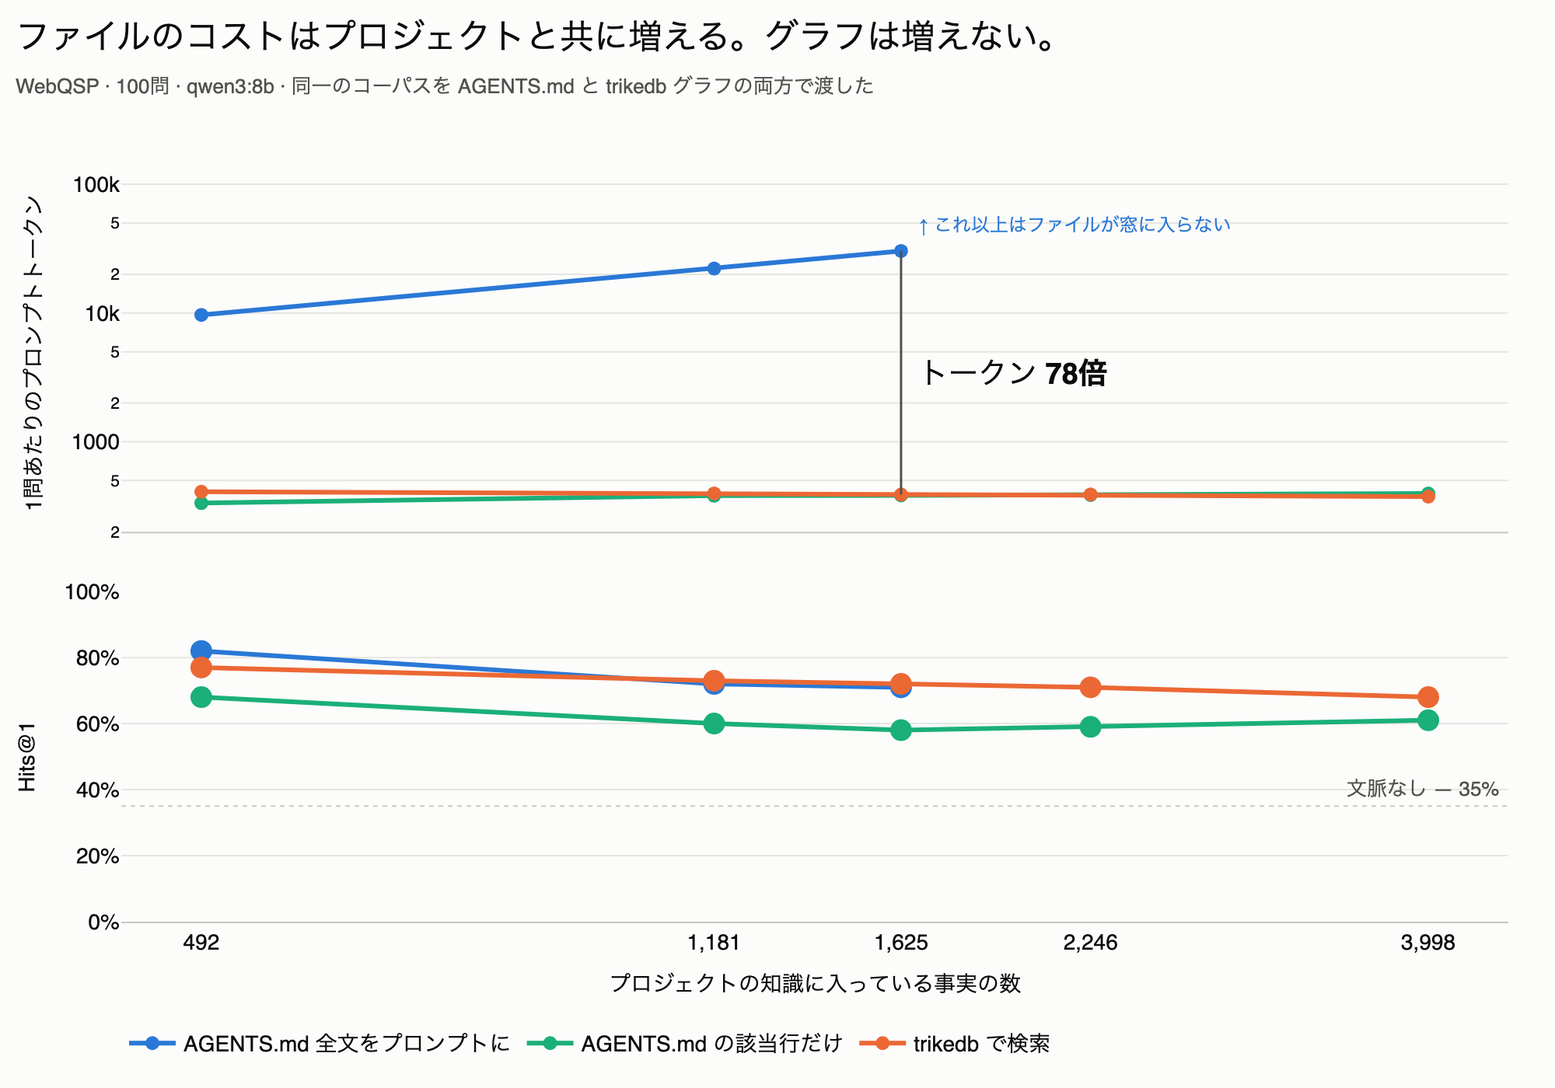
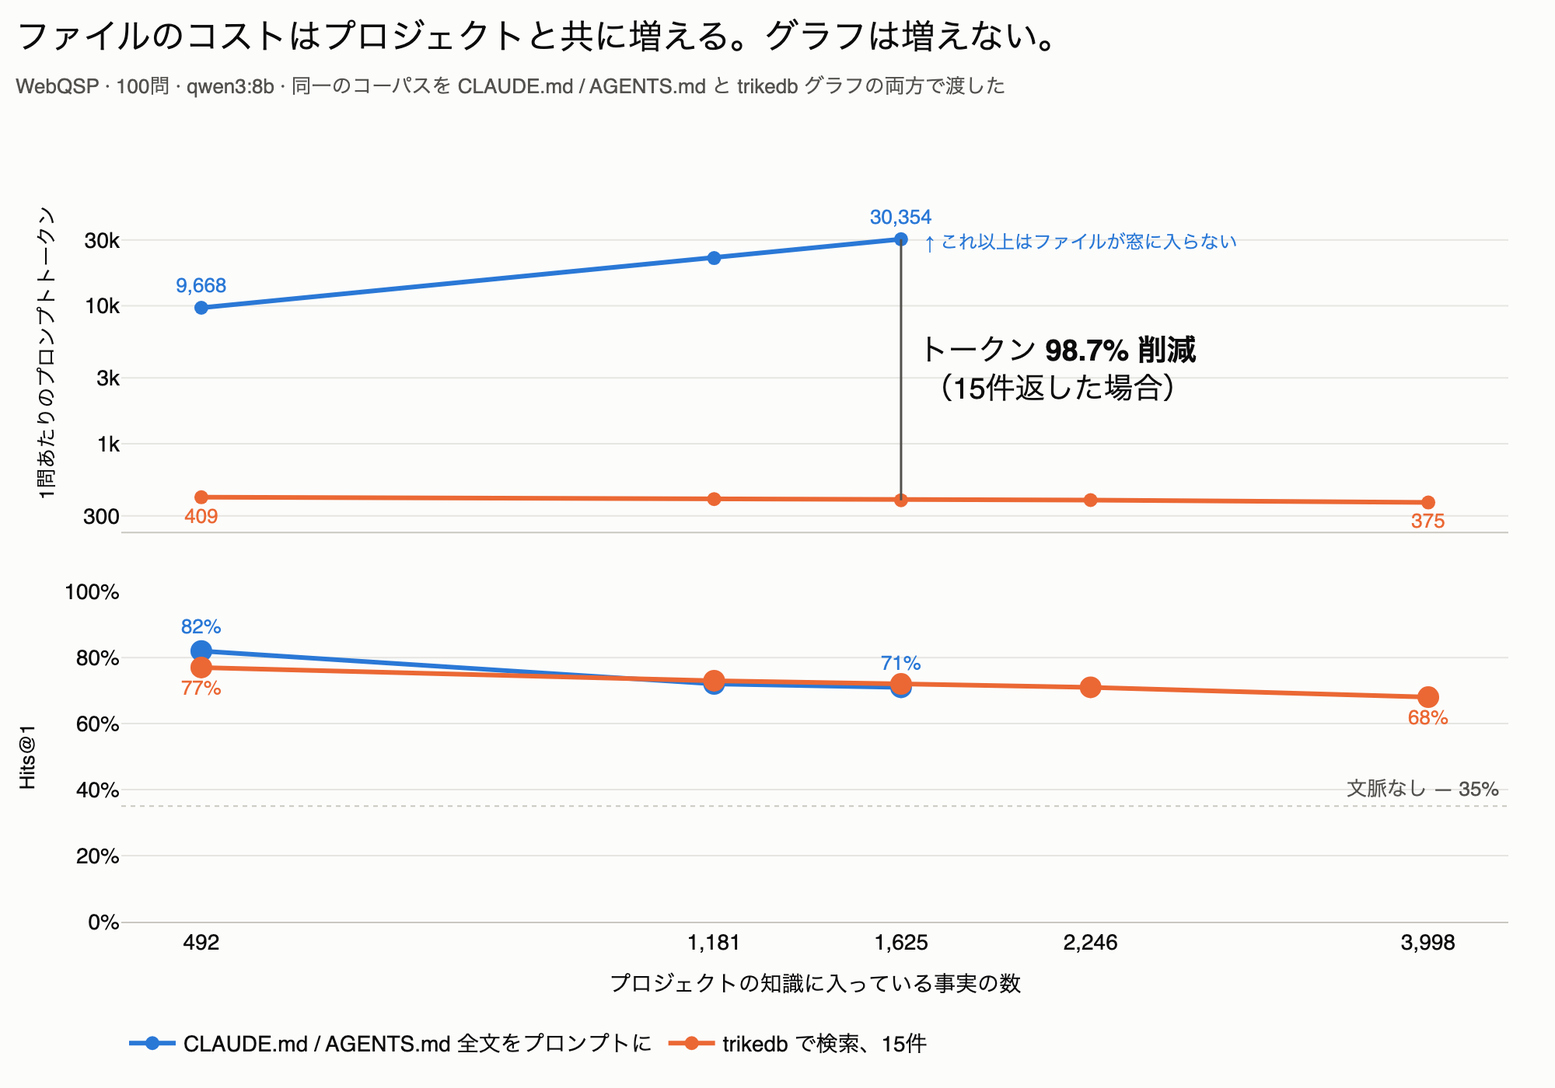
benchmarks: 図が読めなかった。倍率をやめて削減率にし、ファイル名も両方書いた
図の直したところ:
- 線を3本から2本に。md_grep は対照なので数字は表に残し、図からは外した。
  上のパネルでグラフの線とほぼ重なっていて、凡例が3本と言っているのに2本しか
  見えない状態だった。
- 対数軸の目盛りを明示した。放っておくと副目盛りにもラベルが付いて、軸が
  「5 2 5 2 5 2」と並び、どの数字も読み解かないと分からなかった。
- 各線の両端に実数を書いた。軸を読まなくても値が分かる。
- ファイル名を CLAUDE.md / AGENTS.md の両方にした。Claude Code は CLAUDE.md、
  Codex は AGENTS.md で実測しているのに、図は AGENTS.md しか書いていなかった。

「78倍」を「98.7%削減」に変えた。倍率は方向を読者に計算させる。

そして要約行のリードを 88.4% に変えた。98.7% は 1,625 facts での数字で、
そこはファイルが 82.0% から 71.0% に劣化した後なので、グラフが越えるべき
基準が下がっている。88.4% はファイルが一番強い 492 facts での数字で、
しかもグラフが4ポイント勝っている。範囲のおいしい端をリードにしない。

diff --git a/benchmarks/memory_chart.py b/benchmarks/memory_chart.py
@@ -41,7 +41,12 @@ MD = "#2a78d6"
 GRAPH = "#eb6834"
 MD_GREP = "#1baf7a"
 
-SERIES = [("md", MD), ("md_grep", MD_GREP), ("graph", GRAPH)]
+#: Two lines, not three. `md_grep` is a control and its numbers matter, but on
+#: this figure it sits within a few hundred tokens of the graph's line, so the
+#: top panel showed two curves where the legend promised three and the reader
+#: had to work out which was missing. It lives in the table in README.md.
+SERIES = [("md", MD, "top center"), ("graph", GRAPH, "bottom center")]
+PLOTTED = ("md", "graph", "md_grep")
 
 #: A translated doc deserves a translated figure. Only the words move; every
 #: number and every colour is the same file of data.
@@ -49,40 +54,40 @@ TEXT = {
     "en": {
         "title": "The file's cost grows with the project. The graph's does not.",
         "sub": ("WebQSP · 100 questions · qwen3:8b · the identical corpus "
-                "delivered as AGENTS.md and as a trikedb graph"),
+                "delivered as a CLAUDE.md / AGENTS.md and as a trikedb graph"),
         "x": "facts in the project's knowledge",
         "y1": "prompt tokens per question", "y2": "Hits@1",
-        "md": "the whole AGENTS.md in the prompt",
+        "md": "the whole CLAUDE.md / AGENTS.md in the prompt",
         "md_grep": "matching lines of AGENTS.md",
-        "graph": "trikedb retrieval",
+        "graph": "trikedb retrieval, 15 facts",
         "none": "no context at all",
-        "gap": "<b>{ratio:.0f}x</b> the tokens",
+        "gap": "<b>{cut:.1f}% fewer</b> tokens<br>at 15 facts returned",
         "window": "↑ past here the file no longer fits the window",
     },
     "jp": {
         "title": "ファイルのコストはプロジェクトと共に増える。グラフは増えない。",
         "sub": ("WebQSP · 100問 · qwen3:8b · 同一のコーパスを "
-                "AGENTS.md と trikedb グラフの両方で渡した"),
+                "CLAUDE.md / AGENTS.md と trikedb グラフの両方で渡した"),
         "x": "プロジェクトの知識に入っている事実の数",
         "y1": "1問あたりのプロンプトトークン", "y2": "Hits@1",
-        "md": "AGENTS.md 全文をプロンプトに",
+        "md": "CLAUDE.md / AGENTS.md 全文をプロンプトに",
         "md_grep": "AGENTS.md の該当行だけ",
-        "graph": "trikedb で検索",
+        "graph": "trikedb で検索、15件",
         "none": "文脈なし",
-        "gap": "トークン <b>{ratio:.0f}倍</b>",
+        "gap": "トークン <b>{cut:.1f}% 削減</b><br>（15件返した場合）",
         "window": "↑ これ以上はファイルが窓に入らない",
     },
     "zh": {
         "title": "文件的成本随项目增长，图谱的不会。",
         "sub": ("WebQSP · 100 题 · qwen3:8b · 同一份语料分别以 "
-                "AGENTS.md 和 trikedb 图谱交付"),
+                "CLAUDE.md / AGENTS.md 和 trikedb 图谱交付"),
         "x": "项目知识中的事实条数",
         "y1": "每题的提示词 token 数", "y2": "Hits@1",
-        "md": "把整个 AGENTS.md 放进提示",
+        "md": "把整个 CLAUDE.md / AGENTS.md 放进提示",
         "md_grep": "只放 AGENTS.md 中匹配的行",
-        "graph": "trikedb 检索",
+        "graph": "trikedb 检索，15 条",
         "none": "没有任何上下文",
-        "gap": "token <b>{ratio:.0f} 倍</b>",
+        "gap": "token <b>减少 {cut:.1f}%</b><br>（返回 15 条时）",
         "window": "↑ 再大文件就装不进上下文窗口",
     },
 }
@@ -94,7 +99,7 @@ def main(lang: str = "en") -> None:
     floor = next((r["hits_at_1"] for r in warm if r["condition"] == "none"), None)
     by = {name: sorted((r for r in warm if r["condition"] == name),
                        key=lambda r: r["corpus_triples"])
-          for name, _ in SERIES}
+          for name in PLOTTED}
 
     # The bracket's ratio is raw tokens at a fixed retrieval size, taken at
     # the largest corpus where the file still fits the window. It is not a
@@ -107,7 +112,11 @@ def main(lang: str = "en") -> None:
     paired = next(r for r in by["graph"]
                   if r["corpus_triples"] == biggest["corpus_triples"])
     ratio = biggest["median_prompt_tokens"] / paired["median_prompt_tokens"]
-    words = {k: v.format(ratio=ratio) if "{ratio" in v else v
+    # A percentage, because "78x" makes the reader work out which direction is
+    # cheaper. "98.7% fewer" does not.
+    cut = 100 * (1 - paired["median_prompt_tokens"]
+                 / biggest["median_prompt_tokens"])
+    words = {k: v.format(ratio=ratio, cut=cut) if "{" in v else v
              for k, v in TEXT[lang].items()}
 
     # Every size any condition reached, not just the file arm's. The file
@@ -118,14 +127,28 @@ def main(lang: str = "en") -> None:
     figure = make_subplots(rows=2, cols=1, shared_xaxes=True,
                            vertical_spacing=0.08, row_heights=[0.52, 0.48])
 
-    for name, color in SERIES:
+    for name, color, side in SERIES:
         points = by[name]
         if not points:
             continue
         x = [r["corpus_triples"] for r in points]
+
+        def ends(values, fmt):
+            """The value written on the first and last point, nothing between.
+
+            Labelling every point stacks five numbers along a line that is
+            almost flat; labelling none makes the reader decode a log axis to
+            learn that 409 and 375 are the same number twice.
+            """
+            return [fmt(v) if i in (0, len(values) - 1) else ""
+                    for i, v in enumerate(values)]
+
+        tokens = [r["median_prompt_tokens"] for r in points]
         figure.add_trace(go.Scatter(
-            x=x, y=[r["median_prompt_tokens"] for r in points],
-            mode="lines+markers", name=words[name], legendgroup=name,
+            x=x, y=tokens, mode="lines+markers+text", name=words[name],
+            legendgroup=name, text=ends(tokens, lambda v: f"{v:,}"),
+            textposition=side, textfont=dict(size=13, color=color),
+            cliponaxis=False,
             line=dict(color=color, width=3), marker=dict(size=9, color=color),
             hovertemplate="%{x:,} facts<br>%{y:,} prompt tokens<extra></extra>",
         ), row=1, col=1)
@@ -133,9 +156,13 @@ def main(lang: str = "en") -> None:
         # real configuration — a file that outgrew the window — but it is a
         # different failure from getting lost in a file that fit, and one
         # marker for both would merge them.
+        hits = [r["hits_at_1"] for r in points]
         figure.add_trace(go.Scatter(
-            x=x, y=[r["hits_at_1"] for r in points], mode="lines+markers",
+            x=x, y=hits, mode="lines+markers+text",
             name=words[name], legendgroup=name, showlegend=False,
+            text=ends(hits, lambda v: f"{v:.0f}%"),
+            textposition=side, textfont=dict(size=13, color=color),
+            cliponaxis=False,
             line=dict(color=color, width=3),
             marker=dict(size=11, color=[SURFACE if r["truncated"] else color
                                         for r in points],
@@ -173,8 +200,8 @@ def main(lang: str = "en") -> None:
     # cannot be run at all rather than merely running worse.
     if biggest["corpus_triples"] < max(sizes):
         figure.add_annotation(
-            x=math.log10(biggest["corpus_triples"]), xshift=10,
-            y=math.log10(biggest["median_prompt_tokens"]), yshift=16,
+            x=math.log10(biggest["corpus_triples"]), xshift=14,
+            y=math.log10(biggest["median_prompt_tokens"]), yshift=-2,
             text=words["window"], showarrow=False, xanchor="left",
             font=dict(size=12, color=MD), row=1, col=1)
 
@@ -207,11 +234,16 @@ def main(lang: str = "en") -> None:
     # Clamped to the data. Left to itself the axis runs down to 5 tokens to
     # reach a round decade, and three quarters of the panel is then empty
     # space under the flat line.
-    figure.update_yaxes(title=dict(text=words["y1"], font=dict(size=14)),
+    # Explicit ticks. Left alone across two and a half decades plotly labels
+    # the minor ticks too, so the axis reads "5 2 5 2 5 2" between the
+    # decades and every number on it has to be decoded.
+    figure.update_yaxes(title=dict(text=words["y1"], font=dict(size=13)),
                         type="log", gridcolor=GRID, zeroline=False,
-                        range=[math.log10(200), math.log10(120_000)],
+                        range=[math.log10(230), math.log10(90_000)],
+                        tickvals=[300, 1_000, 3_000, 10_000, 30_000],
+                        ticktext=["300", "1k", "3k", "10k", "30k"],
                         row=1, col=1)
-    figure.update_yaxes(title=dict(text=words["y2"], font=dict(size=14)),
+    figure.update_yaxes(title=dict(text=words["y2"], font=dict(size=13)),
                         range=[0, 100], ticksuffix="%", gridcolor=GRID,
                         zeroline=False, row=2, col=1)
     out = HERE / ("memory.png" if lang == "en" else f"memory_{lang}.png")

diff --git a/benchmarks/README_jp.md b/benchmarks/README_jp.md
@@ -14,7 +14,7 @@
 | **速度** | 1問22.5秒のうち **0.59秒** — サーバもインデックスもなく、ファイル1つ |
 | **規模** | **10万トリプル**まで速い。最初に苦しくなるのは意味検索で3万から |
 | **端から端まで** | ノートPCの8Bを載せると **77.7%** が正解（グラフなしでは **42.7%**） |
-| **ファイルとの比較** | `CLAUDE.md` と同じ精度に到達するのに必要なトークンは、492 facts で **8.7分の1**、1,625 facts で **78分の1** |
+| **ファイルとの比較** | `CLAUDE.md` / `AGENTS.md` より高い精度を出しつつ **トークンは88.4%削減**。ファイルが育つほど差は開きます |
 
 ## 精度
 
@@ -74,16 +74,20 @@ p = 0.27）。リーダーを差し替えるなら、「分からなければそ
 等価な削減ではありません。trikedb が何件返すかはツマミ（`--cap`）で、誠実な比較は
 それを**答えが並ぶところ**に合わせます:
 
-| 492 facts、ファイルは 82.0% / 9,668 トークン | 精度 | トークン | |
+| 492 facts、ファイルは 82.0% / 9,668 トークン | 精度 | トークン | 削減 |
 |---|---|---|---|
-| trikedb 15件 | 77.0% | 409 | 5pt 負け |
-| **trikedb 50件** | **86.0%** | **1,117** | **8.7分の1、4pt 勝ち** |
-| trikedb 150件 | 88.0% | 3,125 | 3.1分の1、6pt 勝ち |
+| trikedb 15件 | 77.0% | 409 | 95.8%、ただし精度は5pt負け |
+| **trikedb 50件** | **86.0%** | **1,117** | **88.4%、しかも精度は4pt勝ち** |
+| trikedb 150件 | 88.0% | 3,125 | 67.7%、精度は6pt勝ち |
 
-つまり 492 facts での等価な数字は **8.7倍**で、最初の表の生のトークン比が示す24倍
-ではありません。1,625 facts では15件で既にファイルに並んでいる（72.0% 対 71.0%）
-ので、そこでの比が78倍。比が開くのは、**育ったファイルは高くなり、同時に精度も
-落ちる**ので、グラフが超えるべき基準が下がるからです。
+つまり 492 facts での等価な数字は **「精度で勝ちながらトークン88.4%削減」**で、
+最初の表の生のトークン比が示す95.8%ではありません。
+
+1,625 facts では15件で既にファイルに並んでいる（72.0% 対 71.0%）ので削減は
+98.7%。ただしこれは**範囲の一番おいしい端**で、条件を付けて読むべき数字です。
+ファイルは 492 facts で 82.0%、1,625 facts で 71.0% — 育つと精度が落ちるので、
+グラフが超えるべき基準が下がっています。**ファイルが一番強い地点で測った 88.4%
+が、引用すべき数字です。**
 
 ファイル側にこのツマミはありません。すでに全部送っているので、492 facts では
 82.0% が天井で、いくら払っても上がりません。グラフは 88.0% まで届いて、それでも
@@ -137,15 +141,19 @@ p = 0.27）。リーダーを差し替えるなら、「分からなければそ
 |---|---|---|---|
 | Claude Code, `CLAUDE.md` | 41,318 · 70.0% | 63,172 · 63.3% | 110,839 · 70.0% |
 | Claude Code, trikedb | 31,377 · 66.7% | 29,769 · 60.0% | **29,758 · 66.7%** |
+| → トークン削減 | 24.1% | 52.9% | **73.2%** |
 | Codex, `AGENTS.md` | 29,173 · 73.3% | 58,308 · 60.0% | 87,153 · 56.7% |
 | Codex, trikedb | 20,523 · 66.7% | 20,503 · 66.7% | **20,510 · 66.7%** |
+| → トークン削減 | 29.7% | 64.8% | **76.5%** |
 
 30問、`claude-haiku-4.5` と Codex のデフォルト。Codex のファイル条件だけは 1,625
 件で2ターン、3,998件で3ターン回っています — それだけ大きいファイルの中を探し始める
 ためで、コストが上がる理由の一部です。他はすべて1ターン。各数字の大半はハーネス
 自身のシステムプロンプト（Claude Code は知識ゼロでも 31,014 トークン）で、これは
 どちらの条件でも避けられません。それを引くと、**知識そのもののコストはファイルで
-+10,304 トークン、グラフで +363 トークン** — 28倍の差です。
++10,304 トークン、グラフで +363 トークン — 96.5%削減**です。リクエスト全体での
+削減率がこれより小さいのは、リクエストの3分の2がどちらの条件でも避けられない
+ハーネスのオーバーヘッドだからです。
 
 Codex のほうが結果はきれいです。コーパスが育つとファイル条件は**高くなり、同時に
 精度も落ちる**（73.3% → 56.7%）のに対し、グラフ条件は 20,510 トークン横ばいで

diff --git a/benchmarks/README_zh.md b/benchmarks/README_zh.md
@@ -14,7 +14,7 @@
 | **速度** | 一题 22.5 秒里的 **0.59 秒** — 没有服务器，没有索引，只有一个文件 |
 | **规模** | 到 **10 万条三元组**仍然很快；最先撑不住的是语义检索，3 万条 |
 | **端到端** | 接上一个笔记本级 8B 阅读模型后答对 **77.7%**（没有图谱时是 **42.7%**） |
-| **与文件的对比** | 要达到 `CLAUDE.md` 的准确率，所需 token 在 492 条时是 **1/8.7**，1,625 条时是 **1/78** |
+| **与文件的对比** | 在准确率高于 `CLAUDE.md` / `AGENTS.md` 的同时，**token 减少 88.4%**；文件越大差距越明显 |
 
 ## 准确率
 
@@ -69,16 +69,19 @@
 409 个 token 换来的是更差的答案，这个比值不是同等条件下的节省。trikedb 返回多少
 条是一个旋钮（`--cap`），诚实的比较要把它调到**答案打平的位置**：
 
-| 492 条，文件是 82.0% / 9,668 token | 准确率 | token | |
+| 492 条，文件是 82.0% / 9,668 token | 准确率 | token | 节省 |
 |---|---|---|---|
-| trikedb 15 条 | 77.0% | 409 | 低 5 个百分点 |
-| **trikedb 50 条** | **86.0%** | **1,117** | **便宜 8.7 倍，高 4 个百分点** |
-| trikedb 150 条 | 88.0% | 3,125 | 便宜 3.1 倍，高 6 个百分点 |
+| trikedb 15 条 | 77.0% | 409 | 95.8%，但低 5 个百分点 |
+| **trikedb 50 条** | **86.0%** | **1,117** | **88.4%，而且高 4 个百分点** |
+| trikedb 150 条 | 88.0% | 3,125 | 67.7%，高 6 个百分点 |
 
-所以 492 条时同等条件下的数字是 **8.7 倍**，而不是第一张表原始 token 比所暗示的
-24 倍。在 1,625 条时返回 15 条就已经与文件打平（72.0% 对 71.0%），那里的比值才是
-78 倍。比值会拉开，是因为**变大的文件既更贵、准确率又更低**，图谱要跨过的门槛
-反而降低了。
+所以 492 条时同等条件下的说法是 **「准确率更高，同时 token 减少 88.4%」**，而不是
+第一张表原始 token 比所暗示的 95.8%。
+
+在 1,625 条时返回 15 条就已经与文件打平（72.0% 对 71.0%），节省达到 98.7% —— 但
+这是整个区间里最讨巧的一端，引用时必须带上条件。文件在 492 条时是 82.0%，到
+1,625 条时只有 71.0%：它变大之后反而更差，门槛因此降低了。**在文件表现最好的
+那个点上测出的 88.4%，才是该引用的数字。**
 
 文件那边没有这个旋钮。它已经把全部内容都发出去了，所以在 492 条时 82.0% 就是
 上限，再多花也买不到。而图谱能做到 88.0%，并且仍然便宜 3.1 倍。
@@ -126,14 +129,18 @@ token：492 条时 68.0%，到 3,998 条降到 61.0%，而图谱是 77.0% → 68
 |---|---|---|---|
 | Claude Code, `CLAUDE.md` | 41,318 · 70.0% | 63,172 · 63.3% | 110,839 · 70.0% |
 | Claude Code, trikedb | 31,377 · 66.7% | 29,769 · 60.0% | **29,758 · 66.7%** |
+| → token 减少 | 24.1% | 52.9% | **73.2%** |
 | Codex, `AGENTS.md` | 29,173 · 73.3% | 58,308 · 60.0% | 87,153 · 56.7% |
 | Codex, trikedb | 20,523 · 66.7% | 20,503 · 66.7% | **20,510 · 66.7%** |
+| → token 减少 | 29.7% | 64.8% | **76.5%** |
 
 30 道题，`claude-haiku-4.5` 与 Codex 的默认模型。除了 Codex 的文件组 —— 它在
 1,625 条时用了两轮、3,998 条时用了三轮，因为它开始在这么大的文件里翻找，这也是
 它成本上升的一部分原因 —— 其余每一行都是一轮。每个数字的大部分是 harness 自身的
 系统提示（Claude Code 在完全没有项目知识时也要 31,014 个 token），两组都躲不开。
-把它减掉，**知识本身的成本是文件 +10,304 个 token，图谱 +363 个** —— 28 倍。
+把它减掉，**知识本身的成本是文件 +10,304 个 token，图谱 +363 个 —— 减少
+96.5%**。整个请求层面的降幅之所以小于这个数，只是因为请求里有三分之二是两组
+都躲不开的 harness 开销。
 
 Codex 的结果更干净：语料变大时，它的文件组既更贵、准确率又*更低*（73.3% →
 56.7%），而图谱组稳定在 20,510 个 token、66.7%。

diff --git a/benchmarks/README.md b/benchmarks/README.md
@@ -14,7 +14,7 @@ Measured on [WebQSP](https://aclanthology.org/P16-2033/), 300 questions.
 | **Speed** | **0.59 s** of the 22.5 s an answer takes — no server, no index, one file |
 | **Scale** | fast to **100,000 triples**; semantic search gives out first, at 30,000 |
 | **End to end** | a laptop-sized 8B reader then answers **77.7%** correctly, against **42.7%** with no graph |
-| **Against a file** | reaching a `CLAUDE.md`'s accuracy takes **8.7x** fewer tokens at 492 facts, **78x** at 1,625 |
+| **Against a file** | beating a `CLAUDE.md` / `AGENTS.md` on accuracy costs **88.4% fewer tokens** — and the gap widens as the file grows |
 
 ## Accuracy
 
@@ -77,17 +77,20 @@ graph is 5 points behind there, so its 409 tokens buys a worse answer and the
 ratio is not a like-for-like saving. How many facts trikedb returns is a knob
 (`--cap`), and the honest comparison sets it to where the answers match:
 
-| 492 facts, the file scores 82.0% on 9,668 tokens | Hits@1 | tokens | |
+| 492 facts, the file scores 82.0% on 9,668 tokens | Hits@1 | tokens | tokens saved |
 |---|---|---|---|
-| trikedb, 15 facts | 77.0% | 409 | 5 points behind |
-| **trikedb, 50 facts** | **86.0%** | **1,117** | **8.7x cheaper, 4 points ahead** |
-| trikedb, 150 facts | 88.0% | 3,125 | 3.1x cheaper, 6 points ahead |
+| trikedb, 15 facts | 77.0% | 409 | 95.8%, but 5 points behind |
+| **trikedb, 50 facts** | **86.0%** | **1,117** | **88.4%, and 4 points ahead** |
+| trikedb, 150 facts | 88.0% | 3,125 | 67.7%, and 6 points ahead |
 
-So the like-for-like number at 492 facts is **8.7x**, not the 24x the first
-table's raw tokens suggest. At 1,625 facts 15 facts already matches the file
-(72.0% against 71.0%), and there the ratio is 78x — it grows because a growing
-file costs more *and* answers worse, which lowers the bar the graph has to
-clear.
+So the like-for-like figure at 492 facts is **88.4% fewer tokens at higher
+accuracy**, not the 95.8% the first table's raw tokens suggest.
+
+At 1,625 facts 15 facts already matches the file (72.0% against 71.0%) and the
+saving is 98.7% — but that is the flattering end of the range and worth
+reading with its condition attached. The file scored 82.0% at 492 facts and
+71.0% at 1,625: it got worse as it grew, which lowered the bar. 88.4% is the
+number measured where the file is at its best, so it is the one to quote.
 
 The file has no such knob. It is already sending everything, so 82.0% is its
 ceiling at 492 facts and no budget buys more. The graph reaches 88.0% and is
@@ -142,8 +145,10 @@ lands in and on session lifetime, and this benchmark controls neither.
 |---|---|---|---|
 | Claude Code, `CLAUDE.md` | 41,318 · 70.0% | 63,172 · 63.3% | 110,839 · 70.0% |
 | Claude Code, trikedb | 31,377 · 66.7% | 29,769 · 60.0% | **29,758 · 66.7%** |
+| → tokens saved | 24.1% | 52.9% | **73.2%** |
 | Codex, `AGENTS.md` | 29,173 · 73.3% | 58,308 · 60.0% | 87,153 · 56.7% |
 | Codex, trikedb | 20,523 · 66.7% | 20,503 · 66.7% | **20,510 · 66.7%** |
+| → tokens saved | 29.7% | 64.8% | **76.5%** |
 
 30 questions, `claude-haiku-4.5` and Codex's default. Every row is one turn
 except Codex's file arm, which took a second turn at 1,625 facts and a third
@@ -152,7 +157,9 @@ part of why its cost climbs. Most of each number is the harness's own system
 prompt — 31,014 tokens for Claude Code with no project knowledge at all —
 which neither arm avoids.
 Subtract it and the knowledge itself costs **+10,304 tokens as a file against
-+363 as a graph**, a factor of 28.
++363 as a graph — 96.5% less**. The whole-request saving is smaller than that
+only because two thirds of the request is harness overhead neither arm can
+avoid.
 
 Codex is the cleaner result: as the corpus grows its file arm gets both more
 expensive and *less* accurate (73.3% → 56.7%) while the graph arm holds
